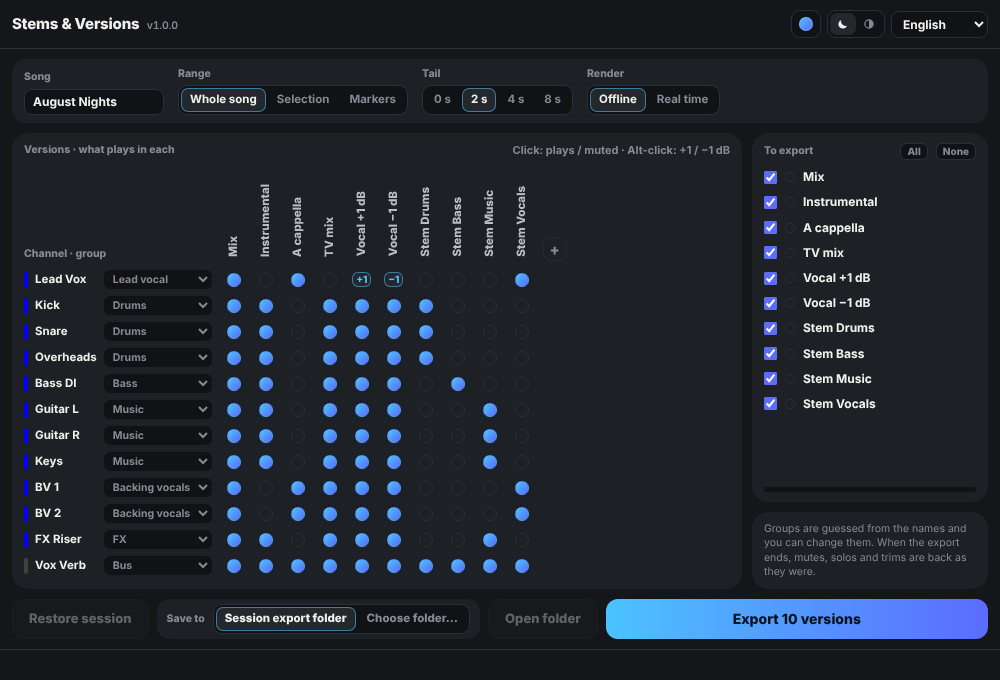
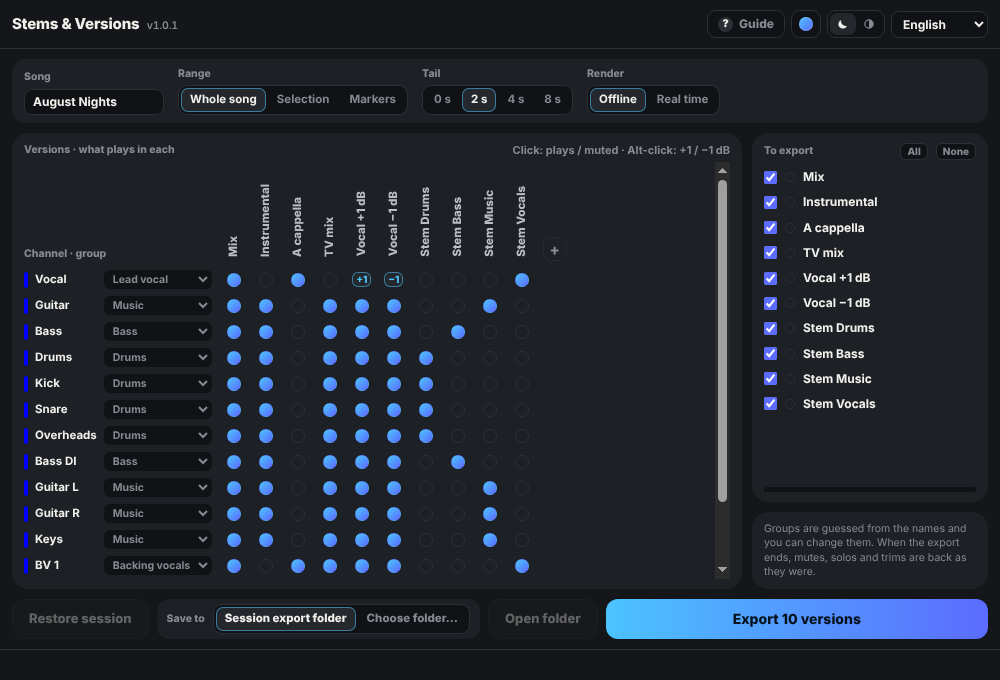
Add files via upload

diff --git a/main.js b/main.js
@@ -6,7 +6,7 @@
 (() => {
   const $ = (id) => document.getElementById(id);
   const L = window.SVLogic;
-  const VERSION = '1.0.0';
+  const VERSION = '1.0.1';
   const KEY = 'com.fedetrillo.stemsversions.';
   const store = {
     get: (k) => { try { return JSON.parse(localStorage.getItem(KEY + k)); } catch { return null; } },
@@ -56,6 +56,10 @@
   if (!I18N[lang]) lang = 'en';
   const t = (k, v = {}) => String(I18N[lang]?.[k] ?? I18N.en[k] ?? k).replace(/\{(\w+)\}/g, (m, x) => (x in v ? String(v[x]) : m));
   const COLORS = ['yellow', 'orange', 'red', 'green', 'blue', 'pink', 'purple'];
+
+  // The guide: its texts, in every language.
+  for (const [c, v] of Object.entries({"en": {"help": "Quick guide", "helpBtn": "Guide", "tNext": "Next", "tBack": "Back", "tSkip": "Skip", "tDone": "Got it", "langT": "Choose your language", "langX": "The guide and the whole window will use it. You can change it later here, at the top right.", "zt": "Always at hand", "z": "Open this guide again whenever you need it with the Guide button.", "q1t": "What to export", "q1": "Name the song for the file names, choose the range (whole song, a selection or between two markers), how much tail to leave and whether to render offline or in real time.", "q2t": "What plays in each version", "q2": "One row per channel, grouped by name; one column per version. Click a cell to make it play or mute, Alt-click for +1 / −1 dB. Click a version name to leave it out, double-click to rename it, and + adds your own.", "q3t": "Pick the versions", "q3": "Tick the versions you want this time, or use All and None. While exporting, each one shows how it is going.", "q4t": "Export", "q4": "Choose where the files go (the session folder or any folder) and press Export. When it finishes, your mutes, solos and trims are back as they were; if an export is cut off, Restore session puts them back."}, "es": {"help": "Guía rápida", "helpBtn": "Guía", "tNext": "Siguiente", "tBack": "Atrás", "tSkip": "Saltar", "tDone": "Entendido", "langT": "Elige tu idioma", "langX": "La guía y toda la ventana lo usarán. Puedes cambiarlo luego aquí, arriba a la derecha.", "zt": "Siempre a mano", "z": "Vuelve a esta guía cuando la necesites con el botón Guía.", "q1t": "Qué exportar", "q1": "Pon el nombre de la canción para los archivos, elige el rango (canción entera, una selección o entre dos marcadores), cuánta cola dejar y si renderizar offline o en tiempo real.", "q2t": "Qué suena en cada versión", "q2": "Una fila por canal, agrupados por nombre; una columna por versión. Clic en una casilla para que suene o se silencie, Alt-clic para +1 / −1 dB. Clic en el nombre de una versión para dejarla fuera, doble clic para renombrarla, y + añade las tuyas.", "q3t": "Elige las versiones", "q3": "Marca las versiones que quieres esta vez, o usa Todas y Ninguna. Mientras exporta, cada una muestra cómo va.", "q4t": "Exporta", "q4": "Elige dónde van los archivos (la carpeta de la sesión o la que quieras) y pulsa Exportar. Al acabar, tus mutes, solos y trims vuelven a estar como estaban; si una exportación se corta, Restaurar sesión los deja como estaban."}, "ca": {"help": "Guia ràpida", "helpBtn": "Guia", "tNext": "Següent", "tBack": "Enrere", "tSkip": "Saltar", "tDone": "Entesos", "langT": "Tria el teu idioma", "langX": "La guia i tota la finestra el faran servir. El pots canviar després aquí, a dalt a la dreta.", "zt": "Sempre a mà", "z": "Torna a aquesta guia quan la necessitis amb el botó Guia.", "q1t": "Què exportar", "q1": "Posa el nom de la cançó per als fitxers, tria el rang (cançó sencera, una selecció o entre dos marcadors), quanta cua deixar i si renderitzar offline o en temps real.", "q2t": "Què sona a cada versió", "q2": "Una fila per canal, agrupats pel nom; una columna per versió. Clic en una casella perquè soni o se silenciï, Alt-clic per +1 / −1 dB. Clic al nom d’una versió per deixar-la fora, doble clic per canviar-ne el nom, i + n’afegeix de teves.", "q3t": "Tria les versions", "q3": "Marca les versions que vols aquesta vegada, o fes servir Totes i Cap. Mentre exporta, cadascuna mostra com va.", "q4t": "Exporta", "q4": "Tria on van els fitxers (la carpeta de la sessió o la que vulguis) i prem Exportar. En acabar, els teus mutes, solos i trims tornen a estar com estaven; si una exportació es talla, Restaurar sessió els deixa com eren."}, "fr": {"help": "Guide rapide", "helpBtn": "Guide", "tNext": "Suivant", "tBack": "Retour", "tSkip": "Passer", "tDone": "Compris", "langT": "Choisissez votre langue", "langX": "Le guide et toute la fenêtre l’utiliseront. Vous pourrez la changer ici, en haut à droite.", "zt": "Toujours à portée", "z": "Rouvrez ce guide quand vous voulez avec le bouton Guide.", "q1t": "Quoi exporter", "q1": "Donnez le nom du morceau pour les fichiers, choisissez la plage (morceau entier, une sélection ou entre deux marqueurs), la queue à laisser et le rendu hors ligne ou en temps réel.", "q2t": "Ce qui joue dans chaque version", "q2": "Une ligne par canal, groupés d’après leur nom ; une colonne par version. Cliquez une case pour la faire jouer ou la couper, Alt-clic pour +1 / −1 dB. Cliquez le nom d’une version pour l’exclure, double-cliquez pour la renommer, et + ajoute les vôtres.", "q3t": "Choisissez les versions", "q3": "Cochez les versions voulues cette fois, ou utilisez Toutes et Aucune. Pendant l’export, chacune montre où elle en est.", "q4t": "Exportez", "q4": "Choisissez où vont les fichiers (le dossier de la session ou un autre) et appuyez sur Exporter. À la fin, vos mutes, solos et trims reviennent comme avant ; si un export est interrompu, Restaurer la session les remet."}, "de": {"help": "Kurzanleitung", "helpBtn": "Anleitung", "tNext": "Weiter", "tBack": "Zurück", "tSkip": "Überspringen", "tDone": "Verstanden", "langT": "Wähle deine Sprache", "langX": "Die Anleitung und das ganze Fenster verwenden sie. Du kannst sie später hier oben rechts ändern.", "zt": "Immer zur Hand", "z": "Öffne diese Anleitung jederzeit wieder mit dem Button Anleitung.", "q1t": "Was exportiert wird", "q1": "Gib den Songnamen für die Dateinamen ein, wähle den Bereich (ganzer Song, eine Auswahl oder zwischen zwei Markern), wie viel Ausklang bleibt und ob offline oder in Echtzeit gerendert wird.", "q2t": "Was in jeder Version spielt", "q2": "Eine Zeile pro Kanal, nach Namen gruppiert; eine Spalte pro Version. Klick auf ein Feld: spielt oder stumm, Alt-Klick: +1 / −1 dB. Klick auf einen Versionsnamen lässt sie aus, Doppelklick benennt sie um, und + fügt eigene hinzu.", "q3t": "Versionen wählen", "q3": "Hake die Versionen an, die du diesmal brauchst, oder nimm Alle und Keine. Beim Export zeigt jede, wie es läuft.", "q4t": "Exportieren", "q4": "Wähle, wohin die Dateien kommen (Session-Ordner oder ein beliebiger Ordner), und drücke Exportieren. Danach sind Mutes, Solos und Trims wieder wie vorher; bricht ein Export ab, stellt Session wiederherstellen sie zurück."}, "it": {"help": "Guida rapida", "helpBtn": "Guida", "tNext": "Avanti", "tBack": "Indietro", "tSkip": "Salta", "tDone": "Capito", "langT": "Scegli la tua lingua", "langX": "La guida e tutta la finestra la useranno. Puoi cambiarla poi qui, in alto a destra.", "zt": "Sempre a portata di mano", "z": "Riapri questa guida quando ti serve con il pulsante Guida.", "q1t": "Cosa esportare", "q1": "Scrivi il nome del brano per i file, scegli l’intervallo (brano intero, una selezione o tra due marker), quanta coda lasciare e se renderizzare offline o in tempo reale.", "q2t": "Cosa suona in ogni versione", "q2": "Una riga per canale, raggruppati per nome; una colonna per versione. Clic su una casella per farla suonare o silenziarla, Alt-clic per +1 / −1 dB. Clic sul nome di una versione per escluderla, doppio clic per rinominarla, e + aggiunge le tue.", "q3t": "Scegli le versioni", "q3": "Spunta le versioni che ti servono questa volta, o usa Tutte e Nessuna. Durante l’esportazione ognuna mostra come procede.", "q4t": "Esporta", "q4": "Scegli dove vanno i file (la cartella della sessione o quella che vuoi) e premi Esporta. Alla fine mute, solo e trim tornano come prima; se un’esportazione si interrompe, Ripristina sessione li rimette."}, "pt": {"help": "Guia rápido", "helpBtn": "Guia", "tNext": "Seguinte", "tBack": "Voltar", "tSkip": "Saltar", "tDone": "Percebi", "langT": "Escolhe o teu idioma", "langX": "O guia e toda a janela vão usá-lo. Podes mudá-lo depois aqui, em cima à direita.", "zt": "Sempre à mão", "z": "Volta a este guia quando precisares com o botão Guia.", "q1t": "O que exportar", "q1": "Escreve o nome da canção para os ficheiros, escolhe o intervalo (canção inteira, uma seleção ou entre dois marcadores), quanta cauda deixar e se renderizar offline ou em tempo real.", "q2t": "O que toca em cada versão", "q2": "Uma linha por canal, agrupados pelo nome; uma coluna por versão. Clica numa casa para tocar ou silenciar, Alt-clique para +1 / −1 dB. Clica no nome de uma versão para a deixar de fora, duplo clique para mudar o nome, e + acrescenta as tuas.", "q3t": "Escolhe as versões", "q3": "Marca as versões que queres desta vez, ou usa Todas e Nenhuma. Durante a exportação, cada uma mostra como vai.", "q4t": "Exporta", "q4": "Escolhe para onde vão os ficheiros (a pasta da sessão ou outra) e carrega em Exportar. No fim, mutes, solos e trims voltam a estar como estavam; se uma exportação for interrompida, Restaurar sessão repõe-nos."}})) Object.assign(I18N[c], v);
+  let tour = null;
   let theme = store.get('theme') === 'grey' ? 'grey' : 'dark';
   let color = COLORS.includes(store.get('color')) ? store.get('color') : 'blue';
   let statusTimer;
@@ -103,7 +107,7 @@
     $('lang').replaceChildren(...Object.keys(I18N).map((c) => Object.assign(document.createElement('option'), { value: c, textContent: I18N[c]._name })));
     $('lang').value = lang;
     for (const [id, name] of [['tDark', 'dark'], ['tGrey', 'grey']]) { $(id).classList.toggle('on', theme === name); $(id).title = t(name); }
-    $('colorBtn').title = t('color');
+    $('colorBtn').title = t('color'); $('help').title = t('help'); { const q = document.createElement('b'); q.textContent = '?'; const sp = document.createElement('span'); sp.textContent = t('helpBtn'); $('help').replaceChildren(q, sp); }
     $('colorMenu').replaceChildren(...COLORS.map((c) => {
       const b = document.createElement('button');
       b.className = c === color ? 'on' : '';
@@ -485,6 +489,24 @@
     await loadRows();
     orig = capture();
     paint();
+    tour ??= window.AddOnTour?.attach({
+      button: $('help'), key: `${KEY}tourSeen`,
+      labels: () => ({ next: t('tNext'), back: t('tBack'), skip: t('tSkip'), done: t('tDone') }),
+      language: {
+        sel: '#lang',
+        list: () => Object.keys(I18N).map((c) => [c, I18N[c]._name]),
+        current: () => lang,
+        set: (c) => { lang = c; store.set('lang', c); paintStatic(); },
+        title: () => t('langT'), text: () => t('langX'),
+      },
+      steps: () => [
+        { sel: '.bar', title: () => t('q1t'), text: () => t('q1') },
+        { sel: '#matrix', title: () => t('q2t'), text: () => t('q2') },
+        { sel: '#queue', title: () => t('q3t'), text: () => t('q3') },
+        { sel: '.actions', title: () => t('q4t'), text: () => t('q4') },
+        { sel: '#help', title: () => t('zt'), text: () => t('z') },
+      ],
+    });
     if (store.get(skey('pending'))) say('pending', {}, 'bad', 10000);
     let timer;
     const later = () => { clearTimeout(timer); timer = setTimeout(async () => { if (running) return; await loadRows(); orig = capture(); paint(); }, 300); };

diff --git a/tour.js b/tour.js
@@ -1,0 +1,123 @@
+// A short guided tour, shared by Fede Trillo's Add Ons: each step lights up one part of the
+// window with a bubble that explains it. Shown the first time an Add On opens, and again from
+// the "?" button. Self-contained: it brings its own styles.
+
+(function (root) {
+  const css = `
+  .tour-veil { position: fixed; inset: 0; z-index: 90; }
+  .tour-hole { position: fixed; z-index: 91; border-radius: 12px; box-shadow: 0 0 0 9999px rgba(0,0,0,.62); outline: 2px solid var(--acc); outline-offset: 3px; transition: all .22s ease; pointer-events: none; }
+  .tour-tip { position: fixed; z-index: 92; width: 300px; background: var(--panel2); color: var(--text); border: 1px solid var(--edge); border-radius: 14px; box-shadow: 0 18px 50px rgba(0,0,0,.55); padding: 14px 16px 12px; transition: top .22s ease, left .22s ease; }
+  .tour-tip h4 { margin: 0 0 6px; font-size: 14px; }
+  .tour-tip p { margin: 0; font-size: 12.5px; line-height: 1.45; color: var(--silk); }
+  .tour-tip .tour-row { display: flex; align-items: center; gap: 8px; margin-top: 12px; }
+  .tour-tip .tour-dots { flex: 1; display: flex; gap: 5px; }
+  .tour-tip .tour-dots i { width: 6px; height: 6px; border-radius: 50%; background: var(--edge); }
+  .tour-tip .tour-dots i.on { background: var(--acc); }
+  .tour-tip button { border: 1px solid var(--edge); background: var(--well); color: var(--text); border-radius: 9px; padding: 6px 12px; font: inherit; font-size: 12px; font-weight: 800; cursor: pointer; }
+  .tour-tip button.tour-next { border: 0; color: var(--ink); background: linear-gradient(90deg, var(--acc), var(--acc2)); }
+  .tour-tip button.tour-skip { border: 0; background: none; color: var(--dim); padding: 6px 4px; }
+  .tour-langs { display: grid; grid-template-columns: repeat(2, 1fr); gap: 6px; margin-top: 12px; }
+  .tour-tip .tour-langs button { text-align: left; padding: 8px 10px; font-size: 12.5px; }
+  .tour-tip .tour-langs button.on { border-color: var(--acc); background: color-mix(in srgb, var(--acc) 16%, var(--well)); }
+  .tour-help { min-width: 28px; height: 28px; border-radius: 9px; border: 1px solid var(--edge); background: var(--well); color: var(--dim); font-weight: 800; font-size: 12px; padding: 0 10px; cursor: pointer; display: inline-flex; align-items: center; justify-content: center; gap: 6px; white-space: nowrap; }
+  .tour-help b { display: inline-grid; place-items: center; width: 15px; height: 15px; border-radius: 50%; background: var(--edge); color: var(--text); font-size: 10.5px; }
+  .tour-help:hover { color: var(--text); border-color: var(--silk); }
+  `;
+  let styled = false;
+  const ensureStyle = () => { if (styled) return; const s = document.createElement('style'); s.textContent = css; document.head.append(s); styled = true; };
+
+  // steps: [{ sel, title, text }]; labels: { next, done, skip, back }; onEnd(): called once.
+  function start(steps, labels, onEnd) {
+    ensureStyle();
+    stop();
+    const veil = document.createElement('div'); veil.className = 'tour-veil';
+    const hole = document.createElement('div'); hole.className = 'tour-hole';
+    const tip = document.createElement('div'); tip.className = 'tour-tip'; tip.setAttribute('role', 'dialog');
+    document.body.append(veil, hole, tip);
+    let i = 0;
+    const end = () => { stop(); onEnd?.(); };
+    function place() {
+      const st = steps[i];
+      const target = document.querySelector(st.sel);
+      const r = target ? target.getBoundingClientRect() : { left: innerWidth / 2, top: innerHeight / 2, width: 0, height: 0, right: innerWidth / 2, bottom: innerHeight / 2 };
+      const pad = 4;
+      Object.assign(hole.style, { left: `${r.left - pad}px`, top: `${r.top - pad}px`, width: `${r.width + pad * 2}px`, height: `${r.height + pad * 2}px` });
+      tip.innerHTML = '';
+      const h = document.createElement('h4'); h.textContent = typeof st.title === 'function' ? st.title() : st.title;
+      const p = document.createElement('p'); p.textContent = typeof st.text === 'function' ? st.text() : st.text;
+      const row = document.createElement('div'); row.className = 'tour-row';
+      const dots = document.createElement('div'); dots.className = 'tour-dots';
+      steps.forEach((_, k) => { const d = document.createElement('i'); if (k === i) d.className = 'on'; dots.append(d); });
+      const skip = document.createElement('button'); skip.className = 'tour-skip'; skip.textContent = labels.skip; skip.onclick = end;
+      const L = typeof labels === 'function' ? labels() : labels;
+      skip.textContent = L.skip;
+      const next = document.createElement('button'); next.className = 'tour-next'; next.textContent = i === steps.length - 1 ? L.done : L.next;
+      next.onclick = () => { if (i < steps.length - 1) { i++; place(); } else end(); };
+      row.append(dots);
+      if (i < steps.length - 1 && !st.noSkip) row.append(skip);
+      if (i > 0 && !steps[i - 1].once) { const back = document.createElement('button'); back.textContent = L.back; back.onclick = () => { i--; place(); }; row.append(back); }
+      row.append(next);
+      tip.append(h, p);
+      st.extra?.(tip, place);
+      tip.append(row);
+      // Below the target if it fits, else above, else beside; always inside the window.
+      const tw = tip.offsetWidth, th = tip.offsetHeight, m = 12;
+      let top = r.bottom + m, left = r.left + r.width / 2 - tw / 2;
+      if (top + th > innerHeight - 8) top = r.top - th - m;
+      if (top < 8) { top = Math.max(8, Math.min(innerHeight - th - 8, r.top + r.height / 2 - th / 2)); left = r.right + m + tw < innerWidth ? r.right + m : r.left - tw - m; }
+      tip.style.left = `${Math.max(8, Math.min(innerWidth - tw - 8, left))}px`;
+      tip.style.top = `${Math.max(8, top)}px`;
+      (tip.querySelector('.tour-langs .on') ?? next).focus();
+    }
+    const onKey = (e) => { if (e.key === 'Escape') { e.stopPropagation(); if (!steps[i].noSkip) end(); } else if (e.key === 'ArrowRight' || e.key === 'Enter') { e.preventDefault(); e.stopPropagation(); tip.querySelector('.tour-next')?.click(); } else if (e.key === 'ArrowLeft' && i > 0 && !steps[i - 1].once) { i--; place(); } };
+    const onResize = () => place();
+    document.addEventListener('keydown', onKey, true);
+    window.addEventListener('resize', onResize);
+    veil.onclick = () => undefined;
+    current = { veil, hole, tip, onKey, onResize };
+    place();
+  }
+  let current = null;
+  function stop() {
+    if (!current) return;
+    current.veil.remove(); current.hole.remove(); current.tip.remove();
+    document.removeEventListener('keydown', current.onKey, true);
+    window.removeEventListener('resize', current.onResize);
+    current = null;
+  }
+  // A "?" button that starts the tour; `key` remembers in localStorage that it has been seen.
+  // `language` ({ sel, list, current, set, title, text }) makes the first run open with a language
+  // choice, so the guide that follows is already in that language. It cannot be skipped.
+  function attach({ button, key, steps, labels, auto = true, language = null }) {
+    ensureStyle();
+    button.classList.add('tour-help');
+    const finish = () => { try { localStorage.setItem(key, '1'); } catch { /* not fatal */ } };
+    const run = (withLanguage = false) => {
+      const list = steps();
+      if (withLanguage && language) {
+        list.unshift({
+          sel: language.sel, noSkip: true, once: true,
+          title: () => language.title(), text: () => language.text(),
+          extra: (tip, repaint) => {
+            const box = document.createElement('div'); box.className = 'tour-langs';
+            for (const [code, name] of language.list()) {
+              const b = document.createElement('button'); b.textContent = name; b.lang = code;
+              if (code === language.current()) b.className = 'on';
+              b.onclick = () => { language.set(code); repaint(); };
+              box.append(b);
+            }
+            tip.append(box);
+          },
+        });
+      }
+      start(list, labels, finish);
+    };
+    button.onclick = () => run(false);
+    let seen = false;
+    try { seen = localStorage.getItem(key) === '1'; } catch { /* not fatal */ }
+    if (auto && !seen) setTimeout(() => run(true), 600);
+    return { run, get active() { return !!current; } };
+  }
+
+  root.AddOnTour = { start, stop, attach };
+})(typeof window !== 'undefined' ? window : globalThis);

diff --git a/index.html b/index.html
@@ -142,6 +142,7 @@
 <body>
   <div class="top">
     <h1>Stems &amp; Versions <small id="ver"></small></h1>
+    <button id="help"></button>
     <div class="colors">
       <button id="colorBtn" aria-haspopup="true"><i></i></button>
       <div class="menu" id="colorMenu" hidden></div>
@@ -181,6 +182,7 @@
   </div>
   <div class="foot"><div class="status" id="status" role="status"></div></div>
   <script src="vendor/luna.global.js"></script>
+  <script src="tour.js"></script>
   <script src="logic.js"></script>
   <script src="main.js"></script>
 </body>

diff --git a/README.md b/README.md
@@ -39,6 +39,9 @@ them all with LUNA's own export. Your mix is put back exactly as it was when it 
 2. Check the groups and the dots, and add any version you need with **+**.
 3. Tick the versions you want, choose the range and where to save, and press **Export**.
 
+The first time it opens, it asks for your language and then a short guide walks you through the
+window in it; the **Guide** button brings it back whenever you need it.
+
 Level changes are made with each channel's trim, so they also work on channels with volume
 automation. Stems pass through the main bus, so its processing (a bus compressor, say) acts on
 each stem on its own.

diff --git a/CHANGELOG.md b/CHANGELOG.md
@@ -1,5 +1,10 @@
 # Changelog
 
+## 1.0.1 — 2026-11-25
+
+- A short getting-started guide: the first time it opens it asks for your language, then walks
+  you through the window in it. The **Guide** button brings it back.
+
 ## 1.0.0 — 2026-11-25
 
 - First release: a table of channels against versions, and one export that renders them all with
